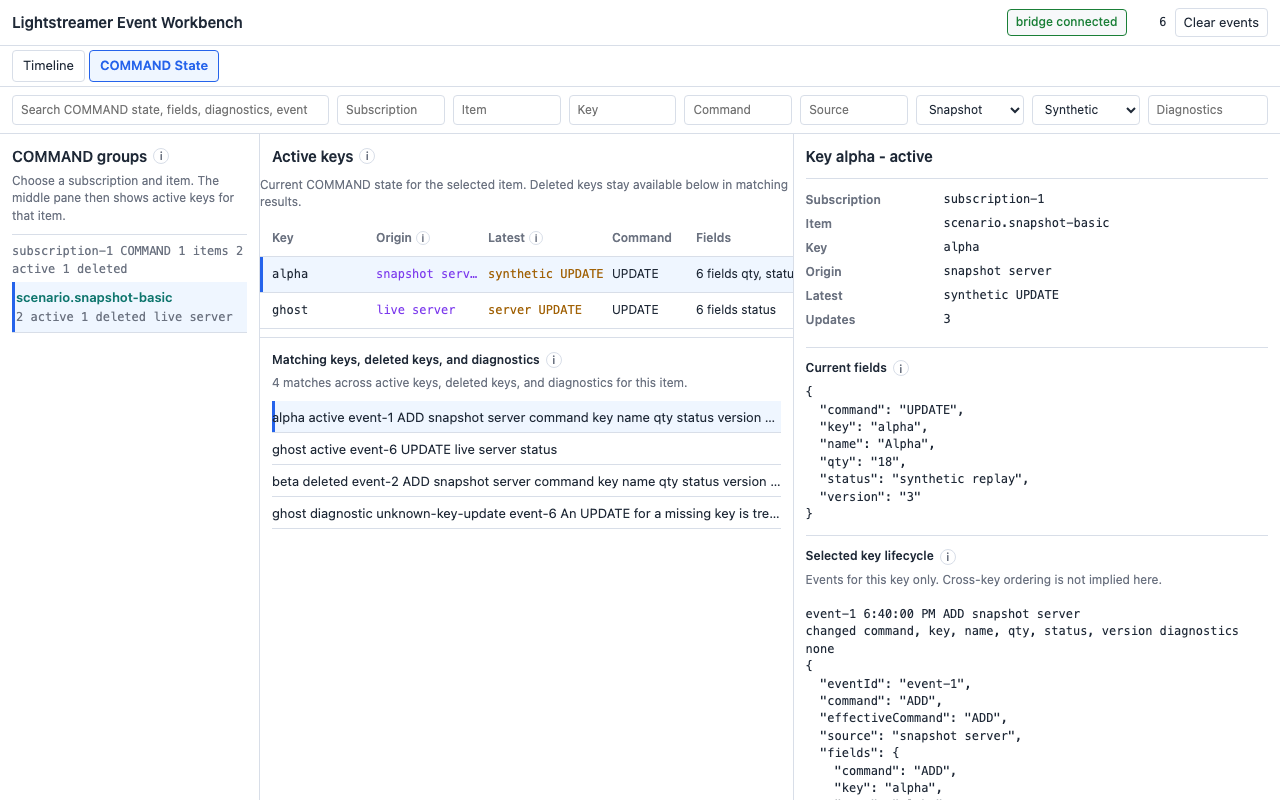
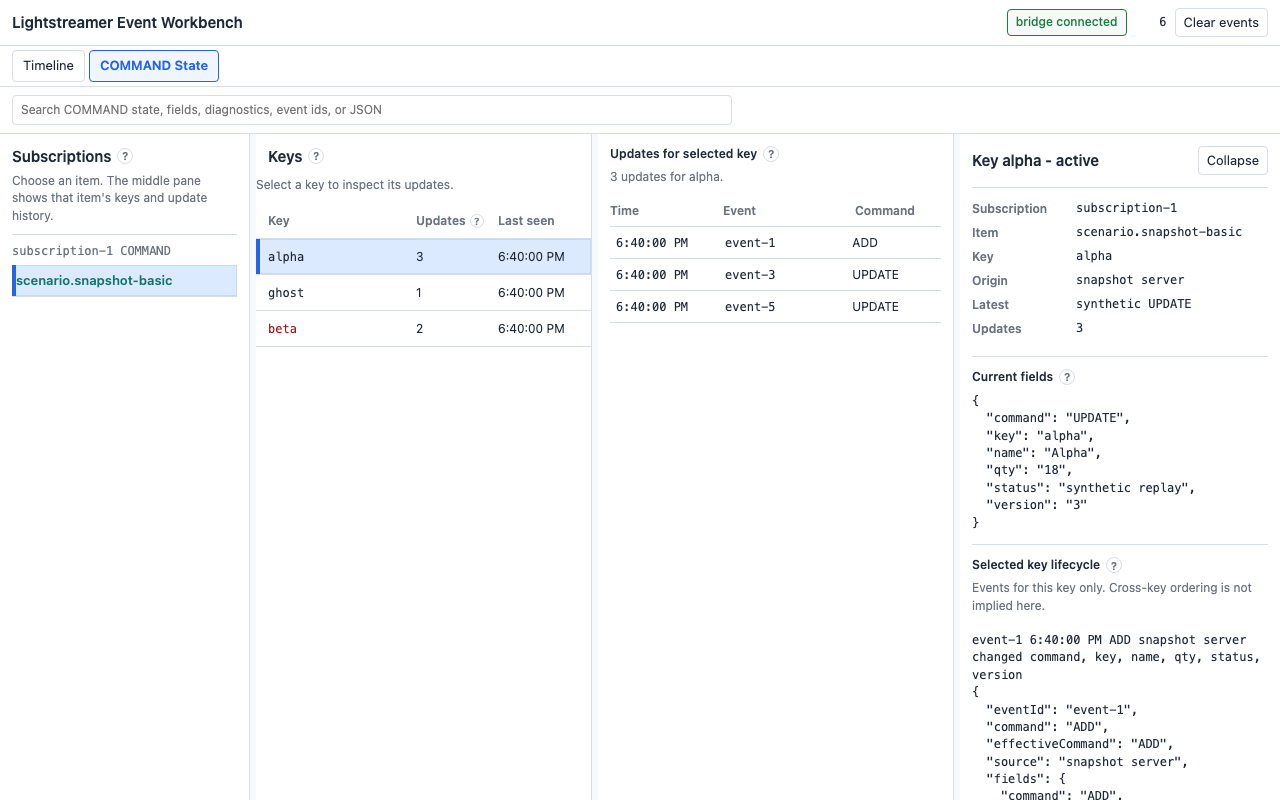
chore: prepare 0.1.1 store listing release
Refresh store screenshots and listing copy, add bug-fix release notes, bump extension version metadata, and verify the release package.

diff --git a/store-listing/LISTING.md b/store-listing/LISTING.md
@@ -31,13 +31,15 @@ English (United States)
 ```text
 Lightstreamer Event Workbench adds a Chrome DevTools panel for developers debugging web applications that use the official Lightstreamer Web Client.
 
-It captures client, subscription, listener, item update, snapshot, and COMMAND-mode key lifecycle activity from the inspected page, then shows it in a searchable in-memory workbench. Developers can inspect normalized Lightstreamer event envelopes, reconstruct current COMMAND state, review key lifecycles, and locally reinject edited synthetic updates through captured listener paths without backend access.
+It captures client, subscription, listener, item update, snapshot, and COMMAND-mode key lifecycle activity from the inspected page, then shows it in a searchable in-memory workbench with explicit retention status. Developers can inspect normalized Lightstreamer event envelopes, reconstruct current COMMAND state, review key lifecycles, and locally reinject edited synthetic updates through captured listener paths without backend access.
 
 Key features:
 
-- Timeline view for captured Lightstreamer clients, subscriptions, item updates, snapshots, and synthetic replays.
-- COMMAND State view that groups active and deleted keys by subscription and item.
-- Lifecycle detail for ADD, UPDATE, DELETE, snapshot, live, and synthetic COMMAND events.
+- Timeline view for captured Lightstreamer clients, subscriptions, item updates, snapshots, and synthetic replays, with bounded rendering for high-volume sessions.
+- COMMAND State view that groups active and deleted keys by subscription and item, with a selected-key update history.
+- Single free-text search in Timeline and COMMAND State for event IDs, Lightstreamer fields, commands, keys, diagnostics, source, and JSON payloads.
+- Collapsible detail panes, table headers, and clearer selected-row highlighting for faster scanning.
+- Lifecycle detail for ADD, UPDATE, DELETE, snapshot, live, and synthetic COMMAND events, with diagnostics and update payloads surfaced first.
 - Draft editor for cloning captured updates and locally reinjecting safe synthetic events.
 - New COMMAND update editor with schema-based fields, validation diagnostics, and listener-target checks.
 - WebSocket/TLCP fallback diagnostics when primary Web Client instrumentation is unavailable.
@@ -49,11 +51,11 @@ This extension is intended for developers and QA engineers who need to understan
 ## Screenshot Upload Order
 
 1. `screenshots/01-command-state-active-keys.png`
-   - Caption: COMMAND State groups active keys by subscription and item, with lifecycle results and selected-key detail.
+   - Caption: COMMAND State groups active and deleted keys by subscription and item, with selected-key update history and lifecycle detail.
 2. `screenshots/02-timeline-event-detail.png`
-   - Caption: Timeline view lists captured Lightstreamer updates and shows the normalized event envelope.
+   - Caption: Timeline view lists captured Lightstreamer updates with headers, single search, and normalized event detail.
 3. `screenshots/03-new-command-update-editor.png`
-   - Caption: New COMMAND update editor validates schema fields before local listener-path injection.
+   - Caption: New COMMAND update editor validates schema fields and listener-target diagnostics before local injection.
 
 ## Graphic Assets
 
@@ -73,6 +75,27 @@ Marquee promo tile, optional:
 
 ```text
 store-listing/promo/marquee-promo-tile.png
+```
+
+## Release Notes Draft
+
+Version:
+
+```text
+0.1.1
+```
+
+What's new:
+
+```text
+Bug-fix release focused on high-volume debugging and DevTools panel readability.
+
+- Shows retained, total, and pruned event counts so event-store limits are explicit during long sessions.
+- Keeps Timeline rendering responsive by bounding visible high-volume event lists and prompting users to narrow search results.
+- Replaces dense Timeline and COMMAND State filter rows with one free-text search per view.
+- Adds visible table headers, collapsible detail panes, and clearer full-row selection highlighting.
+- Fixes help popups so tooltip text is visible on hover/focus and avoids viewport clipping.
+- Reorganizes event detail sections so raw diagnostics and useful update payloads are easier to inspect.
 ```
 
 ## Privacy Practices Draft
@@ -108,7 +131,7 @@ For deterministic local verification from the repository:
 
 - [ ] Confirm `public/manifest.json` version matches `package.json`.
 - [ ] Run `npm run release:package`.
-- [ ] Upload `release/lightstreamer-event-workbench-v0.1.0.zip`.
+- [ ] Upload `release/lightstreamer-event-workbench-v0.1.1.zip`.
 - [ ] Upload `public/icons/icon-128.png` as the store icon.
 - [ ] Upload all three screenshots in the order listed above.
 - [ ] Upload `store-listing/promo/small-promo-tile.png`.

diff --git a/README.md b/README.md
@@ -8,7 +8,7 @@ This repository is the public homepage and support location for the extension.
 
 ## Status
 
-Version `0.1.0` has been submitted for Chrome Web Store review. The Chrome Web Store install link will be added here after approval. Until then, contributors and reviewers can install the extension from source by loading the built `dist/` directory as an unpacked extension.
+Version `0.1.1` is the current bug-fix package for Chrome Web Store review. The Chrome Web Store install link will be added here after approval. Until then, contributors and reviewers can install the extension from source by loading the built `dist/` directory as an unpacked extension.
 
 The first release focuses on in-memory debugging for the current inspected tab. The UI and internal event envelope may evolve as more Lightstreamer workflows are validated.
 